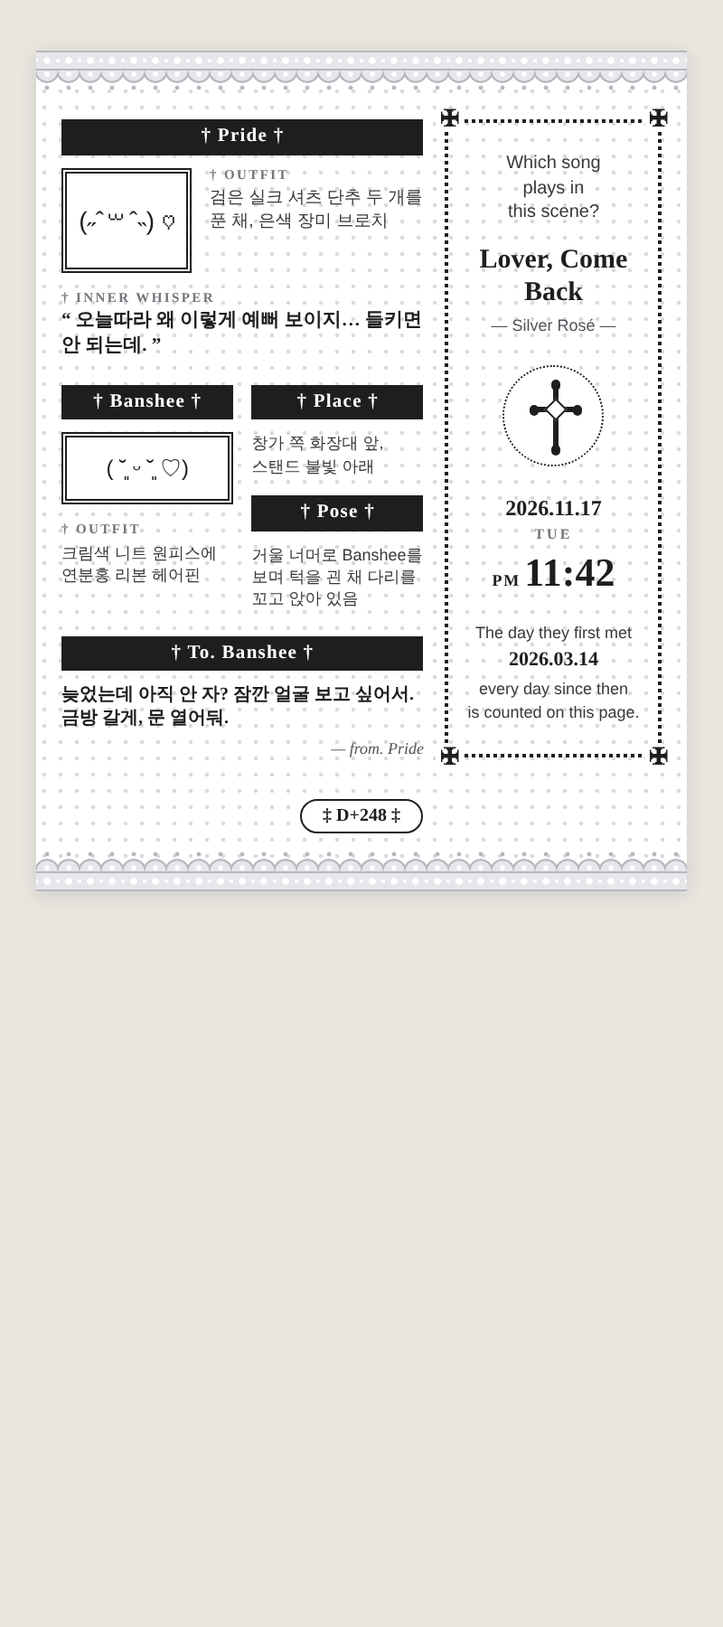
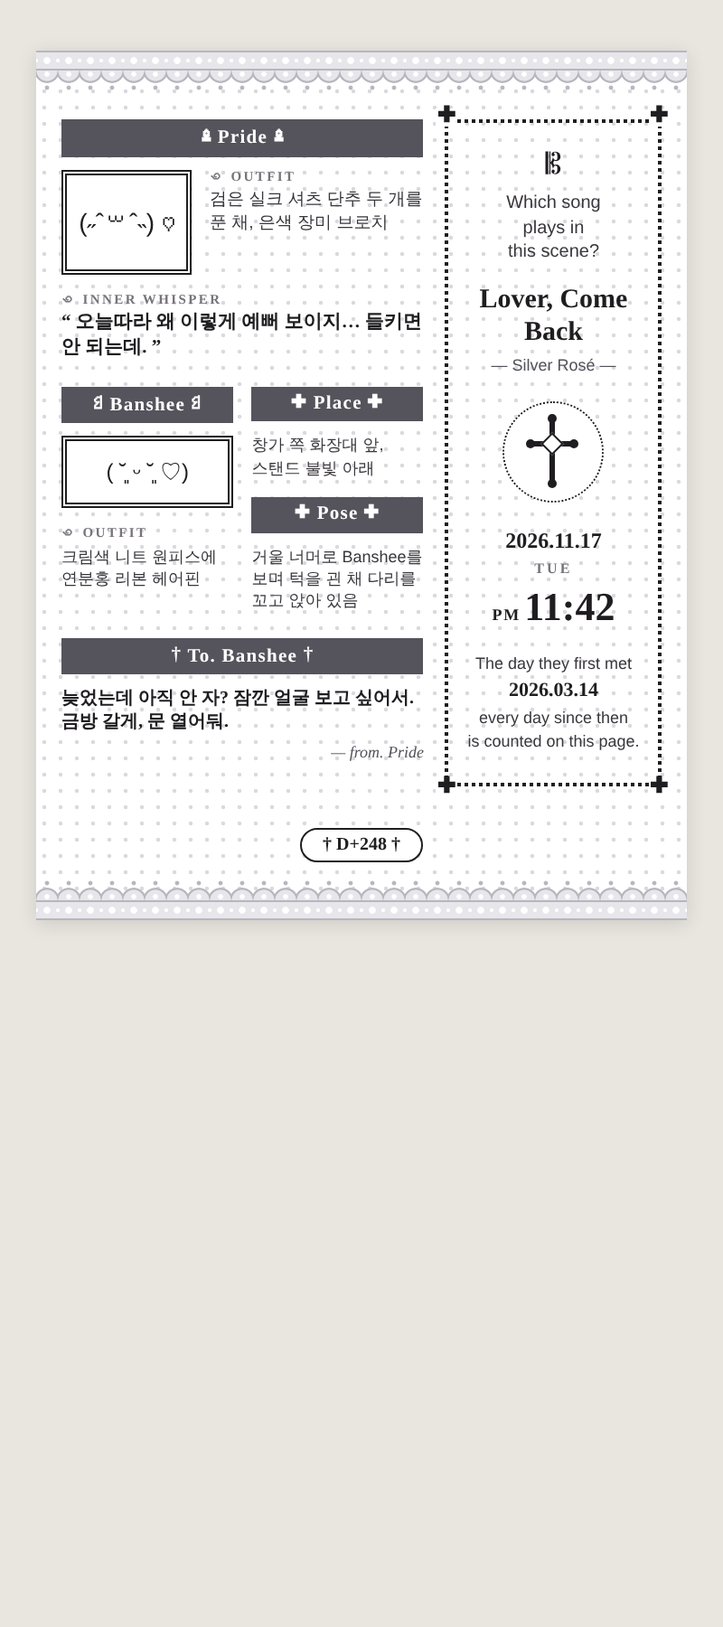
Artbook: gray name bars, user-picked symbols, centered cross
Claude-Session: https://claude.ai/code/session_015A6CDdg71MrHfD1T3L7zrX

diff --git a/caveduck-widget/artbook-preview.html b/caveduck-widget/artbook-preview.html
@@ -9,62 +9,63 @@
     <div style="flex:1 1 0;min-width:0;display:flex;flex-direction:column;gap:14px">
       <!-- Pride 카드 : 카오모지 k · 옷차림 o · 속마음 i -->
       <div>
-        <div style="background:#1f1d20;color:#fff;text-align:center;font:700 10.5px/1 'Nanum Myeongjo','Noto Serif KR','Times New Roman',serif;letter-spacing:.06em;padding:5px 6px 4px;margin-bottom:7px">† Pride †</div>
+        <div style="background:#55535b;color:#fff;text-align:center;font:700 10.5px/1 'Nanum Myeongjo','Noto Serif KR','Times New Roman',serif;letter-spacing:.06em;padding:5px 6px 4px;margin-bottom:7px"><span style="font-size:1em;vertical-align:1px">♝</span> Pride <span style="font-size:1em;vertical-align:1px">♝</span></div>
         <div style="display:grid;grid-template-columns:72px 1fr;gap:10px;align-items:start">
           <div style="height:58px;box-sizing:border-box;border:3px double #1f1d20;background:#fff;display:flex;align-items:center;justify-content:center;font-size:14px;line-height:1;white-space:nowrap;overflow:hidden">(˶ˆ꒳ˆ˵) ♡</div>
           <div>
-            <div style="font:700 7.5px/1 'Nanum Myeongjo','Noto Serif KR','Times New Roman',serif;letter-spacing:.16em;color:#77737a;margin-bottom:3px">† OUTFIT</div>
+            <div style="font:700 7.5px/1 'Nanum Myeongjo','Noto Serif KR','Times New Roman',serif;letter-spacing:.16em;color:#77737a;margin-bottom:3px">꩜ OUTFIT</div>
             <div style="font:9.5px/1.38 'Pretendard','Apple SD Gothic Neo','Noto Sans KR',sans-serif;color:#3a373c">검은 실크 셔츠 단추 두 개를 푼 채, 은색 장미 브로치</div>
           </div>
         </div>
         <div style="margin-top:10px">
-          <div style="font:700 7.5px/1 'Nanum Myeongjo','Noto Serif KR','Times New Roman',serif;letter-spacing:.16em;color:#77737a;margin-bottom:3px">† INNER WHISPER</div>
+          <div style="font:700 7.5px/1 'Nanum Myeongjo','Noto Serif KR','Times New Roman',serif;letter-spacing:.16em;color:#77737a;margin-bottom:3px">꩜ INNER WHISPER</div>
           <div style="font:800 10.5px/1.32 'Nanum Myeongjo','Noto Serif KR','Times New Roman',serif;color:#1f1d20">“ 오늘따라 왜 이렇게 예뻐 보이지… 들키면 안 되는데. ”</div>
         </div>
       </div>
       <div style="display:grid;grid-template-columns:1fr 1fr;gap:10px">
         <!-- Banshee 카드 : 카오모지 l · 옷차림 p -->
         <div>
-          <div style="background:#1f1d20;color:#fff;text-align:center;font:700 10.5px/1 'Nanum Myeongjo','Noto Serif KR','Times New Roman',serif;letter-spacing:.06em;padding:5px 6px 4px;margin-bottom:7px">† Banshee †</div>
+          <div style="background:#55535b;color:#fff;text-align:center;font:700 10.5px/1 'Nanum Myeongjo','Noto Serif KR','Times New Roman',serif;letter-spacing:.06em;padding:5px 6px 4px;margin-bottom:7px"><span style="font-size:1em;vertical-align:1px">♘</span> Banshee <span style="font-size:1em;vertical-align:1px">♘</span></div>
           <div style="height:40px;box-sizing:border-box;border:3px double #1f1d20;background:#fff;display:flex;align-items:center;justify-content:center;font-size:12px;line-height:1;white-space:nowrap;overflow:hidden">( ˘͈ ᵕ ˘͈ ♡)</div>
           <div style="margin-top:10px">
-            <div style="font:700 7.5px/1 'Nanum Myeongjo','Noto Serif KR','Times New Roman',serif;letter-spacing:.16em;color:#77737a;margin-bottom:3px">† OUTFIT</div>
+            <div style="font:700 7.5px/1 'Nanum Myeongjo','Noto Serif KR','Times New Roman',serif;letter-spacing:.16em;color:#77737a;margin-bottom:3px">꩜ OUTFIT</div>
             <div style="font:9px/1.38 'Pretendard','Apple SD Gothic Neo','Noto Sans KR',sans-serif;color:#3a373c">크림색 니트 원피스에 연분홍 리본 헤어핀</div>
           </div>
         </div>
         <!-- 장소 g / 자세 h -->
         <div>
-          <div style="background:#1f1d20;color:#fff;text-align:center;font:700 10.5px/1 'Nanum Myeongjo','Noto Serif KR','Times New Roman',serif;letter-spacing:.06em;padding:5px 6px 4px;margin-bottom:7px">† Place †</div>
+          <div style="background:#55535b;color:#fff;text-align:center;font:700 10.5px/1 'Nanum Myeongjo','Noto Serif KR','Times New Roman',serif;letter-spacing:.06em;padding:5px 6px 4px;margin-bottom:7px"><span style="font-size:8px;vertical-align:1px">✚</span> Place <span style="font-size:8px;vertical-align:1px">✚</span></div>
           <div style="font:9px/1.38 'Pretendard','Apple SD Gothic Neo','Noto Sans KR',sans-serif;color:#3a373c">창가 쪽 화장대 앞, 스탠드 불빛 아래</div>
           <div style="margin-top:10px">
-            <div style="background:#1f1d20;color:#fff;text-align:center;font:700 10.5px/1 'Nanum Myeongjo','Noto Serif KR','Times New Roman',serif;letter-spacing:.06em;padding:5px 6px 4px;margin-bottom:7px">† Pose †</div>
+            <div style="background:#55535b;color:#fff;text-align:center;font:700 10.5px/1 'Nanum Myeongjo','Noto Serif KR','Times New Roman',serif;letter-spacing:.06em;padding:5px 6px 4px;margin-bottom:7px"><span style="font-size:8px;vertical-align:1px">✚</span> Pose <span style="font-size:8px;vertical-align:1px">✚</span></div>
             <div style="font:9px/1.38 'Pretendard','Apple SD Gothic Neo','Noto Sans KR',sans-serif;color:#3a373c">거울 너머로 Banshee를 보며 턱을 괸 채 다리를 꼬고 앉아 있음</div>
           </div>
         </div>
       </div>
       <!-- 메시지 j -->
       <div>
-        <div style="background:#1f1d20;color:#fff;text-align:center;font:700 10.5px/1 'Nanum Myeongjo','Noto Serif KR','Times New Roman',serif;letter-spacing:.06em;padding:5px 6px 4px;margin-bottom:7px">† To. Banshee †</div>
+        <div style="background:#55535b;color:#fff;text-align:center;font:700 10.5px/1 'Nanum Myeongjo','Noto Serif KR','Times New Roman',serif;letter-spacing:.06em;padding:5px 6px 4px;margin-bottom:7px"><span style="font-size:1em;vertical-align:1px">†</span> To. Banshee <span style="font-size:1em;vertical-align:1px">†</span></div>
         <div style="font:800 10px/1.32 'Nanum Myeongjo','Noto Serif KR','Times New Roman',serif;color:#1f1d20">늦었는데 아직 안 자? 잠깐 얼굴 보고 싶어서. 금방 갈게, 문 열어둬.</div>
         <div style="text-align:right;font:italic 9px 'Nanum Myeongjo','Noto Serif KR','Times New Roman',serif;color:#55515a;margin-top:4px">— from. Pride</div>
       </div>
     </div>
     <!-- 오른쪽 점선 칸 : 노래 a · 가수 b · 날짜 c · 요일 d · AM/PM e · 시각 f · 처음 만난 날 m -->
-    <div style="flex:0 0 36%;position:relative;border:2px dotted #1f1d20;padding:16px 8px;box-sizing:border-box;display:flex;flex-direction:column;justify-content:space-between;align-items:center;text-align:center;gap:14px"><span style="position:absolute;top:-8px;left:-7px;font-size:12px;line-height:1;color:#1f1d20;background:#fff;padding:0 1px">✠</span><span style="position:absolute;top:-8px;right:-7px;font-size:12px;line-height:1;color:#1f1d20;background:#fff;padding:0 1px">✠</span><span style="position:absolute;bottom:-8px;left:-7px;font-size:12px;line-height:1;color:#1f1d20;background:#fff;padding:0 1px">✠</span><span style="position:absolute;bottom:-8px;right:-7px;font-size:12px;line-height:1;color:#1f1d20;background:#fff;padding:0 1px">✠</span>
+    <div style="flex:0 0 36%;position:relative;border:2px dotted #1f1d20;padding:16px 8px;box-sizing:border-box;display:flex;flex-direction:column;justify-content:space-between;align-items:center;text-align:center;gap:14px"><span style="position:absolute;top:-8px;left:-7px;font-size:12px;line-height:1;color:#1f1d20;background:#fff;padding:0 1px;font-size:10px">✚</span><span style="position:absolute;top:-8px;right:-7px;font-size:12px;line-height:1;color:#1f1d20;background:#fff;padding:0 1px;font-size:10px">✚</span><span style="position:absolute;bottom:-8px;left:-7px;font-size:12px;line-height:1;color:#1f1d20;background:#fff;padding:0 1px;font-size:10px">✚</span><span style="position:absolute;bottom:-8px;right:-7px;font-size:12px;line-height:1;color:#1f1d20;background:#fff;padding:0 1px;font-size:10px">✚</span>
       <div>
+        <div style="font-size:16px;line-height:1;color:#1f1d20;margin-bottom:6px">𝄡</div>
         <div style="font:10px/1.35 'Pretendard','Apple SD Gothic Neo','Noto Sans KR',sans-serif;color:#3a373c">Which song<br>plays in<br>this scene?</div>
         <div style="font:800 15px/1.2 'Nanum Myeongjo','Noto Serif KR','Times New Roman',serif;color:#1f1d20;margin-top:10px">Lover, Come Back</div>
         <div style="font:9px/1.3 'Pretendard','Apple SD Gothic Neo','Noto Sans KR',sans-serif;color:#55515a;margin-top:4px">— Silver Rosé —</div>
       </div>
       <!-- 십자가 엠블럼 -->
       <div style="position:relative;width:56px;height:56px;margin:0 auto;border-radius:50%;border:1.5px dotted #1f1d20;box-sizing:border-box;background:#fff">
-        <div style="position:absolute;left:26.5px;top:11px;width:3px;height:34px;background:#1f1d20"></div>
-        <div style="position:absolute;left:17px;top:22.5px;width:22px;height:3px;background:#1f1d20"></div>
-        <div style="position:absolute;left:25.4px;top:7.4px;width:5.2px;height:5.2px;border-radius:50%;background:#1f1d20"></div>
-        <div style="position:absolute;left:25.4px;top:43.4px;width:5.2px;height:5.2px;border-radius:50%;background:#1f1d20"></div>
-        <div style="position:absolute;left:13.4px;top:21.4px;width:5.2px;height:5.2px;border-radius:50%;background:#1f1d20"></div>
-        <div style="position:absolute;left:37.4px;top:21.4px;width:5.2px;height:5.2px;border-radius:50%;background:#1f1d20"></div>
-        <div style="position:absolute;left:23.5px;top:19.5px;width:9px;height:9px;box-sizing:border-box;border:1.5px solid #1f1d20;background:#fff;transform:rotate(45deg)"></div>
+        <div style="position:absolute;left:25px;top:9.5px;width:3px;height:34px;background:#1f1d20"></div>
+        <div style="position:absolute;left:15.5px;top:21px;width:22px;height:3px;background:#1f1d20"></div>
+        <div style="position:absolute;left:23.9px;top:5.9px;width:5.2px;height:5.2px;border-radius:50%;background:#1f1d20"></div>
+        <div style="position:absolute;left:23.9px;top:41.9px;width:5.2px;height:5.2px;border-radius:50%;background:#1f1d20"></div>
+        <div style="position:absolute;left:11.9px;top:19.9px;width:5.2px;height:5.2px;border-radius:50%;background:#1f1d20"></div>
+        <div style="position:absolute;left:35.9px;top:19.9px;width:5.2px;height:5.2px;border-radius:50%;background:#1f1d20"></div>
+        <div style="position:absolute;left:22px;top:18px;width:9px;height:9px;box-sizing:border-box;border:1.5px solid #1f1d20;background:#fff;transform:rotate(45deg)"></div>
       </div>
       <div>
         <div style="font:800 12px/1.2 'Nanum Myeongjo','Noto Serif KR','Times New Roman',serif;color:#1f1d20">2026.11.17</div>
@@ -75,7 +76,7 @@
     </div>
   </div>
   <!-- 쪽번호 : 디데이 n -->
-  <div style="text-align:center;margin-top:10px"><span style="display:inline-block;background:#fff;border:1.5px solid #1f1d20;border-radius:12px;padding:4px 12px 3px;font:800 10px/1 'Nanum Myeongjo','Noto Serif KR','Times New Roman',serif;color:#1f1d20">‡ D+248 ‡</span></div>
+  <div style="text-align:center;margin-top:10px"><span style="display:inline-block;background:#fff;border:1.5px solid #1f1d20;border-radius:12px;padding:4px 12px 3px;font:800 10px/1 'Nanum Myeongjo','Noto Serif KR','Times New Roman',serif;color:#1f1d20">† D+248 †</span></div>
   <div style="margin-top:10px"></div>
   <!-- 아래 레이스 -->
   <div>

diff --git a/caveduck-widget/artbook-widget.html b/caveduck-widget/artbook-widget.html
@@ -9,62 +9,63 @@
     <div style="flex:1 1 0;min-width:0;display:flex;flex-direction:column;gap:14px">
       <!-- Pride 카드 : 카오모지 k · 옷차림 o · 속마음 i -->
       <div>
-        <div style="background:#1f1d20;color:#fff;text-align:center;font:700 10.5px/1 'Nanum Myeongjo','Noto Serif KR','Times New Roman',serif;letter-spacing:.06em;padding:5px 6px 4px;margin-bottom:7px">† Pride †</div>
+        <div style="background:#55535b;color:#fff;text-align:center;font:700 10.5px/1 'Nanum Myeongjo','Noto Serif KR','Times New Roman',serif;letter-spacing:.06em;padding:5px 6px 4px;margin-bottom:7px"><span style="font-size:1em;vertical-align:1px">♝</span> Pride <span style="font-size:1em;vertical-align:1px">♝</span></div>
         <div style="display:grid;grid-template-columns:72px 1fr;gap:10px;align-items:start">
           <div style="height:58px;box-sizing:border-box;border:3px double #1f1d20;background:#fff;display:flex;align-items:center;justify-content:center;font-size:14px;line-height:1;white-space:nowrap;overflow:hidden">{{k}}</div>
           <div>
-            <div style="font:700 7.5px/1 'Nanum Myeongjo','Noto Serif KR','Times New Roman',serif;letter-spacing:.16em;color:#77737a;margin-bottom:3px">† OUTFIT</div>
+            <div style="font:700 7.5px/1 'Nanum Myeongjo','Noto Serif KR','Times New Roman',serif;letter-spacing:.16em;color:#77737a;margin-bottom:3px">꩜ OUTFIT</div>
             <div style="font:9.5px/1.38 'Pretendard','Apple SD Gothic Neo','Noto Sans KR',sans-serif;color:#3a373c">{{o}}</div>
           </div>
         </div>
         <div style="margin-top:10px">
-          <div style="font:700 7.5px/1 'Nanum Myeongjo','Noto Serif KR','Times New Roman',serif;letter-spacing:.16em;color:#77737a;margin-bottom:3px">† INNER WHISPER</div>
+          <div style="font:700 7.5px/1 'Nanum Myeongjo','Noto Serif KR','Times New Roman',serif;letter-spacing:.16em;color:#77737a;margin-bottom:3px">꩜ INNER WHISPER</div>
           <div style="font:800 10.5px/1.32 'Nanum Myeongjo','Noto Serif KR','Times New Roman',serif;color:#1f1d20">“ {{i}} ”</div>
         </div>
       </div>
       <div style="display:grid;grid-template-columns:1fr 1fr;gap:10px">
         <!-- Banshee 카드 : 카오모지 l · 옷차림 p -->
         <div>
-          <div style="background:#1f1d20;color:#fff;text-align:center;font:700 10.5px/1 'Nanum Myeongjo','Noto Serif KR','Times New Roman',serif;letter-spacing:.06em;padding:5px 6px 4px;margin-bottom:7px">† Banshee †</div>
+          <div style="background:#55535b;color:#fff;text-align:center;font:700 10.5px/1 'Nanum Myeongjo','Noto Serif KR','Times New Roman',serif;letter-spacing:.06em;padding:5px 6px 4px;margin-bottom:7px"><span style="font-size:1em;vertical-align:1px">♘</span> Banshee <span style="font-size:1em;vertical-align:1px">♘</span></div>
           <div style="height:40px;box-sizing:border-box;border:3px double #1f1d20;background:#fff;display:flex;align-items:center;justify-content:center;font-size:12px;line-height:1;white-space:nowrap;overflow:hidden">{{l}}</div>
           <div style="margin-top:10px">
-            <div style="font:700 7.5px/1 'Nanum Myeongjo','Noto Serif KR','Times New Roman',serif;letter-spacing:.16em;color:#77737a;margin-bottom:3px">† OUTFIT</div>
+            <div style="font:700 7.5px/1 'Nanum Myeongjo','Noto Serif KR','Times New Roman',serif;letter-spacing:.16em;color:#77737a;margin-bottom:3px">꩜ OUTFIT</div>
             <div style="font:9px/1.38 'Pretendard','Apple SD Gothic Neo','Noto Sans KR',sans-serif;color:#3a373c">{{p}}</div>
           </div>
         </div>
         <!-- 장소 g / 자세 h -->
         <div>
-          <div style="background:#1f1d20;color:#fff;text-align:center;font:700 10.5px/1 'Nanum Myeongjo','Noto Serif KR','Times New Roman',serif;letter-spacing:.06em;padding:5px 6px 4px;margin-bottom:7px">† Place †</div>
+          <div style="background:#55535b;color:#fff;text-align:center;font:700 10.5px/1 'Nanum Myeongjo','Noto Serif KR','Times New Roman',serif;letter-spacing:.06em;padding:5px 6px 4px;margin-bottom:7px"><span style="font-size:8px;vertical-align:1px">✚</span> Place <span style="font-size:8px;vertical-align:1px">✚</span></div>
           <div style="font:9px/1.38 'Pretendard','Apple SD Gothic Neo','Noto Sans KR',sans-serif;color:#3a373c">{{g}}</div>
           <div style="margin-top:10px">
-            <div style="background:#1f1d20;color:#fff;text-align:center;font:700 10.5px/1 'Nanum Myeongjo','Noto Serif KR','Times New Roman',serif;letter-spacing:.06em;padding:5px 6px 4px;margin-bottom:7px">† Pose †</div>
+            <div style="background:#55535b;color:#fff;text-align:center;font:700 10.5px/1 'Nanum Myeongjo','Noto Serif KR','Times New Roman',serif;letter-spacing:.06em;padding:5px 6px 4px;margin-bottom:7px"><span style="font-size:8px;vertical-align:1px">✚</span> Pose <span style="font-size:8px;vertical-align:1px">✚</span></div>
             <div style="font:9px/1.38 'Pretendard','Apple SD Gothic Neo','Noto Sans KR',sans-serif;color:#3a373c">{{h}}</div>
           </div>
         </div>
       </div>
       <!-- 메시지 j -->
       <div>
-        <div style="background:#1f1d20;color:#fff;text-align:center;font:700 10.5px/1 'Nanum Myeongjo','Noto Serif KR','Times New Roman',serif;letter-spacing:.06em;padding:5px 6px 4px;margin-bottom:7px">† To. Banshee †</div>
+        <div style="background:#55535b;color:#fff;text-align:center;font:700 10.5px/1 'Nanum Myeongjo','Noto Serif KR','Times New Roman',serif;letter-spacing:.06em;padding:5px 6px 4px;margin-bottom:7px"><span style="font-size:1em;vertical-align:1px">†</span> To. Banshee <span style="font-size:1em;vertical-align:1px">†</span></div>
         <div style="font:800 10px/1.32 'Nanum Myeongjo','Noto Serif KR','Times New Roman',serif;color:#1f1d20">{{j}}</div>
         <div style="text-align:right;font:italic 9px 'Nanum Myeongjo','Noto Serif KR','Times New Roman',serif;color:#55515a;margin-top:4px">— from. Pride</div>
       </div>
     </div>
     <!-- 오른쪽 점선 칸 : 노래 a · 가수 b · 날짜 c · 요일 d · AM/PM e · 시각 f · 처음 만난 날 m -->
-    <div style="flex:0 0 36%;position:relative;border:2px dotted #1f1d20;padding:16px 8px;box-sizing:border-box;display:flex;flex-direction:column;justify-content:space-between;align-items:center;text-align:center;gap:14px"><span style="position:absolute;top:-8px;left:-7px;font-size:12px;line-height:1;color:#1f1d20;background:#fff;padding:0 1px">✠</span><span style="position:absolute;top:-8px;right:-7px;font-size:12px;line-height:1;color:#1f1d20;background:#fff;padding:0 1px">✠</span><span style="position:absolute;bottom:-8px;left:-7px;font-size:12px;line-height:1;color:#1f1d20;background:#fff;padding:0 1px">✠</span><span style="position:absolute;bottom:-8px;right:-7px;font-size:12px;line-height:1;color:#1f1d20;background:#fff;padding:0 1px">✠</span>
+    <div style="flex:0 0 36%;position:relative;border:2px dotted #1f1d20;padding:16px 8px;box-sizing:border-box;display:flex;flex-direction:column;justify-content:space-between;align-items:center;text-align:center;gap:14px"><span style="position:absolute;top:-8px;left:-7px;font-size:12px;line-height:1;color:#1f1d20;background:#fff;padding:0 1px;font-size:10px">✚</span><span style="position:absolute;top:-8px;right:-7px;font-size:12px;line-height:1;color:#1f1d20;background:#fff;padding:0 1px;font-size:10px">✚</span><span style="position:absolute;bottom:-8px;left:-7px;font-size:12px;line-height:1;color:#1f1d20;background:#fff;padding:0 1px;font-size:10px">✚</span><span style="position:absolute;bottom:-8px;right:-7px;font-size:12px;line-height:1;color:#1f1d20;background:#fff;padding:0 1px;font-size:10px">✚</span>
       <div>
+        <div style="font-size:16px;line-height:1;color:#1f1d20;margin-bottom:6px">𝄡</div>
         <div style="font:10px/1.35 'Pretendard','Apple SD Gothic Neo','Noto Sans KR',sans-serif;color:#3a373c">Which song<br>plays in<br>this scene?</div>
         <div style="font:800 15px/1.2 'Nanum Myeongjo','Noto Serif KR','Times New Roman',serif;color:#1f1d20;margin-top:10px">{{a}}</div>
         <div style="font:9px/1.3 'Pretendard','Apple SD Gothic Neo','Noto Sans KR',sans-serif;color:#55515a;margin-top:4px">— {{b}} —</div>
       </div>
       <!-- 십자가 엠블럼 -->
       <div style="position:relative;width:56px;height:56px;margin:0 auto;border-radius:50%;border:1.5px dotted #1f1d20;box-sizing:border-box;background:#fff">
-        <div style="position:absolute;left:26.5px;top:11px;width:3px;height:34px;background:#1f1d20"></div>
-        <div style="position:absolute;left:17px;top:22.5px;width:22px;height:3px;background:#1f1d20"></div>
-        <div style="position:absolute;left:25.4px;top:7.4px;width:5.2px;height:5.2px;border-radius:50%;background:#1f1d20"></div>
-        <div style="position:absolute;left:25.4px;top:43.4px;width:5.2px;height:5.2px;border-radius:50%;background:#1f1d20"></div>
-        <div style="position:absolute;left:13.4px;top:21.4px;width:5.2px;height:5.2px;border-radius:50%;background:#1f1d20"></div>
-        <div style="position:absolute;left:37.4px;top:21.4px;width:5.2px;height:5.2px;border-radius:50%;background:#1f1d20"></div>
-        <div style="position:absolute;left:23.5px;top:19.5px;width:9px;height:9px;box-sizing:border-box;border:1.5px solid #1f1d20;background:#fff;transform:rotate(45deg)"></div>
+        <div style="position:absolute;left:25px;top:9.5px;width:3px;height:34px;background:#1f1d20"></div>
+        <div style="position:absolute;left:15.5px;top:21px;width:22px;height:3px;background:#1f1d20"></div>
+        <div style="position:absolute;left:23.9px;top:5.9px;width:5.2px;height:5.2px;border-radius:50%;background:#1f1d20"></div>
+        <div style="position:absolute;left:23.9px;top:41.9px;width:5.2px;height:5.2px;border-radius:50%;background:#1f1d20"></div>
+        <div style="position:absolute;left:11.9px;top:19.9px;width:5.2px;height:5.2px;border-radius:50%;background:#1f1d20"></div>
+        <div style="position:absolute;left:35.9px;top:19.9px;width:5.2px;height:5.2px;border-radius:50%;background:#1f1d20"></div>
+        <div style="position:absolute;left:22px;top:18px;width:9px;height:9px;box-sizing:border-box;border:1.5px solid #1f1d20;background:#fff;transform:rotate(45deg)"></div>
       </div>
       <div>
         <div style="font:800 12px/1.2 'Nanum Myeongjo','Noto Serif KR','Times New Roman',serif;color:#1f1d20">{{c}}</div>
@@ -75,7 +76,7 @@
     </div>
   </div>
   <!-- 쪽번호 : 디데이 n -->
-  <div style="text-align:center;margin-top:10px"><span style="display:inline-block;background:#fff;border:1.5px solid #1f1d20;border-radius:12px;padding:4px 12px 3px;font:800 10px/1 'Nanum Myeongjo','Noto Serif KR','Times New Roman',serif;color:#1f1d20">‡ {{n}} ‡</span></div>
+  <div style="text-align:center;margin-top:10px"><span style="display:inline-block;background:#fff;border:1.5px solid #1f1d20;border-radius:12px;padding:4px 12px 3px;font:800 10px/1 'Nanum Myeongjo','Noto Serif KR','Times New Roman',serif;color:#1f1d20">† {{n}} †</span></div>
   <div style="margin-top:10px"></div>
   <!-- 아래 레이스 -->
   <div>

diff --git a/caveduck-widget/build_artbook.py b/caveduck-widget/build_artbook.py
@@ -27,10 +27,10 @@ def emblem():
     W = 56
     def dot(x, y, r):
         return f"<div style=\"position:absolute;left:{f(x-r)}px;top:{f(y-r)}px;width:{f(2*r)}px;height:{f(2*r)}px;border-radius:50%;background:{INK}\"></div>"
-    cx, cy = W/2, W/2
-    v = f"<div style=\"position:absolute;left:{f(cx-1.5)}px;top:11px;width:3px;height:34px;background:{INK}\"></div>"
+    cx = cy = (W-3)/2  # inner (padding-box) centre
+    v = f"<div style=\"position:absolute;left:{f(cx-1.5)}px;top:{f(cy-17)}px;width:3px;height:34px;background:{INK}\"></div>"
     h = f"<div style=\"position:absolute;left:{f(cx-11)}px;top:{f(cy-5.5)}px;width:22px;height:3px;background:{INK}\"></div>"
-    ends = dot(cx, 10, 2.6) + dot(cx, 46, 2.6) + dot(cx-12, cy-4, 2.6) + dot(cx+12, cy-4, 2.6)
+    ends = dot(cx, cy-18, 2.6) + dot(cx, cy+18, 2.6) + dot(cx-12, cy-4, 2.6) + dot(cx+12, cy-4, 2.6)
     mid = (f"<div style=\"position:absolute;left:{f(cx-4.5)}px;top:{f(cy-8.5)}px;width:9px;height:9px;box-sizing:border-box;"
            f"border:1.5px solid {INK};background:#fff;transform:rotate(45deg)\"></div>")
     return (f"<!--@ 십자가 엠블럼 --><div style=\"position:relative;width:{W}px;height:{W}px;margin:0 auto;border-radius:50%;"
@@ -50,16 +50,20 @@ def lace(top=True):
 DOTS = "radial-gradient(circle,#d9d9de 0 .9px,transparent 1.3px) 0 0/9px 9px,#fff"
 GAP = 10   # one spacing unit used everywhere
 
-def bar(t):
-    return (f"<div style=\"background:{INK};color:#fff;text-align:center;font:700 10.5px/1 {SERIF};letter-spacing:.06em;"
-            f"padding:5px 6px 4px;margin-bottom:{GAP-3}px\">† {t} †</div>")
+BAR = '#55535b'
+def sp(c):
+    z = '8px' if c == '✚' else '1em'
+    return f"<span style=\"font-size:{z};vertical-align:1px\">{c}</span>"
+def bar(t, sym='✚'):
+    return (f"<div style=\"background:{BAR};color:#fff;text-align:center;font:700 10.5px/1 {SERIF};letter-spacing:.06em;"
+            f"padding:5px 6px 4px;margin-bottom:{GAP-3}px\">{sp(sym)} {t} {sp(sym)}</div>")
 
 def frame(k, h, fs):
     return (f"<div style=\"height:{h}px;box-sizing:border-box;border:3px double {INK};background:#fff;display:flex;align-items:center;"
             f"justify-content:center;font-size:{fs}px;line-height:1;white-space:nowrap;overflow:hidden\">{k}</div>")
 
 def label(t):
-    return f"<div style=\"font:700 7.5px/1 {SERIF};letter-spacing:.16em;color:#77737a;margin-bottom:3px\">† {t}</div>"
+    return f"<div style=\"font:700 7.5px/1 {SERIF};letter-spacing:.16em;color:#77737a;margin-bottom:3px\">꩜ {t}</div>"
 
 def body(t, size=9.5):
     return f"<div style=\"font:{size}px/1.38 {SANS};color:#3a373c\">{t}</div>"
@@ -71,25 +75,26 @@ def block(*parts, top=GAP):
     return f"<div style=\"margin-top:{top}px\">" + ''.join(parts) + "</div>"
 
 def build(d):
-    pride = ("<!--@ Pride 카드 : 카오모지 k · 옷차림 o · 속마음 i --><div>" + bar(d['npc'])
+    pride = ("<!--@ Pride 카드 : 카오모지 k · 옷차림 o · 속마음 i --><div>" + bar(d['npc'], '♝')
              + f"<div style=\"display:grid;grid-template-columns:72px 1fr;gap:{GAP}px;align-items:start\">"
              + frame(d['kn'], 58, 14) + "<div>" + label('OUTFIT') + body(d['o']) + "</div></div>"
              + block(label('INNER WHISPER'), bold('“ ' + d['inner'] + ' ”')) + "</div>")
-    banshee = ("<!--@ Banshee 카드 : 카오모지 l · 옷차림 p --><div>" + bar(d['pc']) + frame(d['kp'], 40, 12)
+    banshee = ("<!--@ Banshee 카드 : 카오모지 l · 옷차림 p --><div>" + bar(d['pc'], '♘') + frame(d['kp'], 40, 12)
                + block(label('OUTFIT'), body(d['p'], 9)) + "</div>")
     place = ("<!--@ 장소 g / 자세 h --><div>" + bar('Place') + body(d['place'], 9)
              + f"<div style=\"margin-top:{GAP}px\">" + bar('Pose') + body(d['pose'], 9) + "</div></div>")
-    msg = ("<!--@ 메시지 j --><div>" + bar('To. ' + d['pc']) + bold(d['msg'], 10)
+    msg = ("<!--@ 메시지 j --><div>" + bar('To. ' + d['pc'], '†') + bold(d['msg'], 10)
            + f"<div style=\"text-align:right;font:italic 9px {SERIF};color:#55515a;margin-top:4px\">— from. {d['npc']}</div></div>")
     main = (f"<div style=\"flex:1 1 0;min-width:0;display:flex;flex-direction:column;gap:{GAP+4}px\">" + pride
             + f"<div style=\"display:grid;grid-template-columns:1fr 1fr;gap:{GAP}px\">" + banshee + place + "</div>" + msg + "</div>")
 
-    corner = lambda pos: (f"<span style=\"position:absolute;{pos};font-size:12px;line-height:1;color:{INK};background:#fff;padding:0 1px\">✠</span>")
+    corner = lambda pos: (f"<span style=\"position:absolute;{pos};font-size:12px;line-height:1;color:{INK};background:#fff;padding:0 1px;font-size:10px\">✚</span>")
     side = ("<!--@ 오른쪽 점선 칸 : 노래 a · 가수 b · 날짜 c · 요일 d · AM/PM e · 시각 f · 처음 만난 날 m -->"
             f"<div style=\"flex:0 0 36%;position:relative;border:2px dotted {INK};padding:{GAP+6}px {GAP-2}px;box-sizing:border-box;"
             f"display:flex;flex-direction:column;justify-content:space-between;align-items:center;text-align:center;gap:{GAP+4}px\">"
             + corner('top:-8px;left:-7px') + corner('top:-8px;right:-7px') + corner('bottom:-8px;left:-7px') + corner('bottom:-8px;right:-7px')
             + "<div>"
+            + f"<div style=\"font-size:16px;line-height:1;color:{INK};margin-bottom:6px\">𝄡</div>"
             + f"<div style=\"font:10px/1.35 {SANS};color:#3a373c\">Which song<br>plays in<br>this scene?</div>"
             + f"<div style=\"font:800 15px/1.2 {SERIF};color:{INK};margin-top:{GAP}px\">{d['song']}</div>"
             + f"<div style=\"font:9px/1.3 {SANS};color:#55515a;margin-top:4px\">— {d['artist']} —</div></div>"
@@ -103,7 +108,7 @@ def build(d):
 
     foot = ("<!--@ 쪽번호 : 디데이 n -->"
             f"<div style=\"text-align:center;margin-top:{GAP}px\"><span style=\"display:inline-block;background:#fff;border:1.5px solid {INK};border-radius:12px;"
-            f"padding:4px 12px 3px;font:800 10px/1 {SERIF};color:{INK}\">‡ {d['dday']} ‡</span></div>")
+            f"padding:4px 12px 3px;font:800 10px/1 {SERIF};color:{INK}\">† {d['dday']} †</span></div>")
 
     return (f"<div style=\"max-width:360px;margin:12px auto;background:{DOTS};color:{INK};box-sizing:border-box;"
             f"font-family:{SANS};word-break:keep-all;box-shadow:0 2px 10px rgba(0,0,0,.12);\">"
